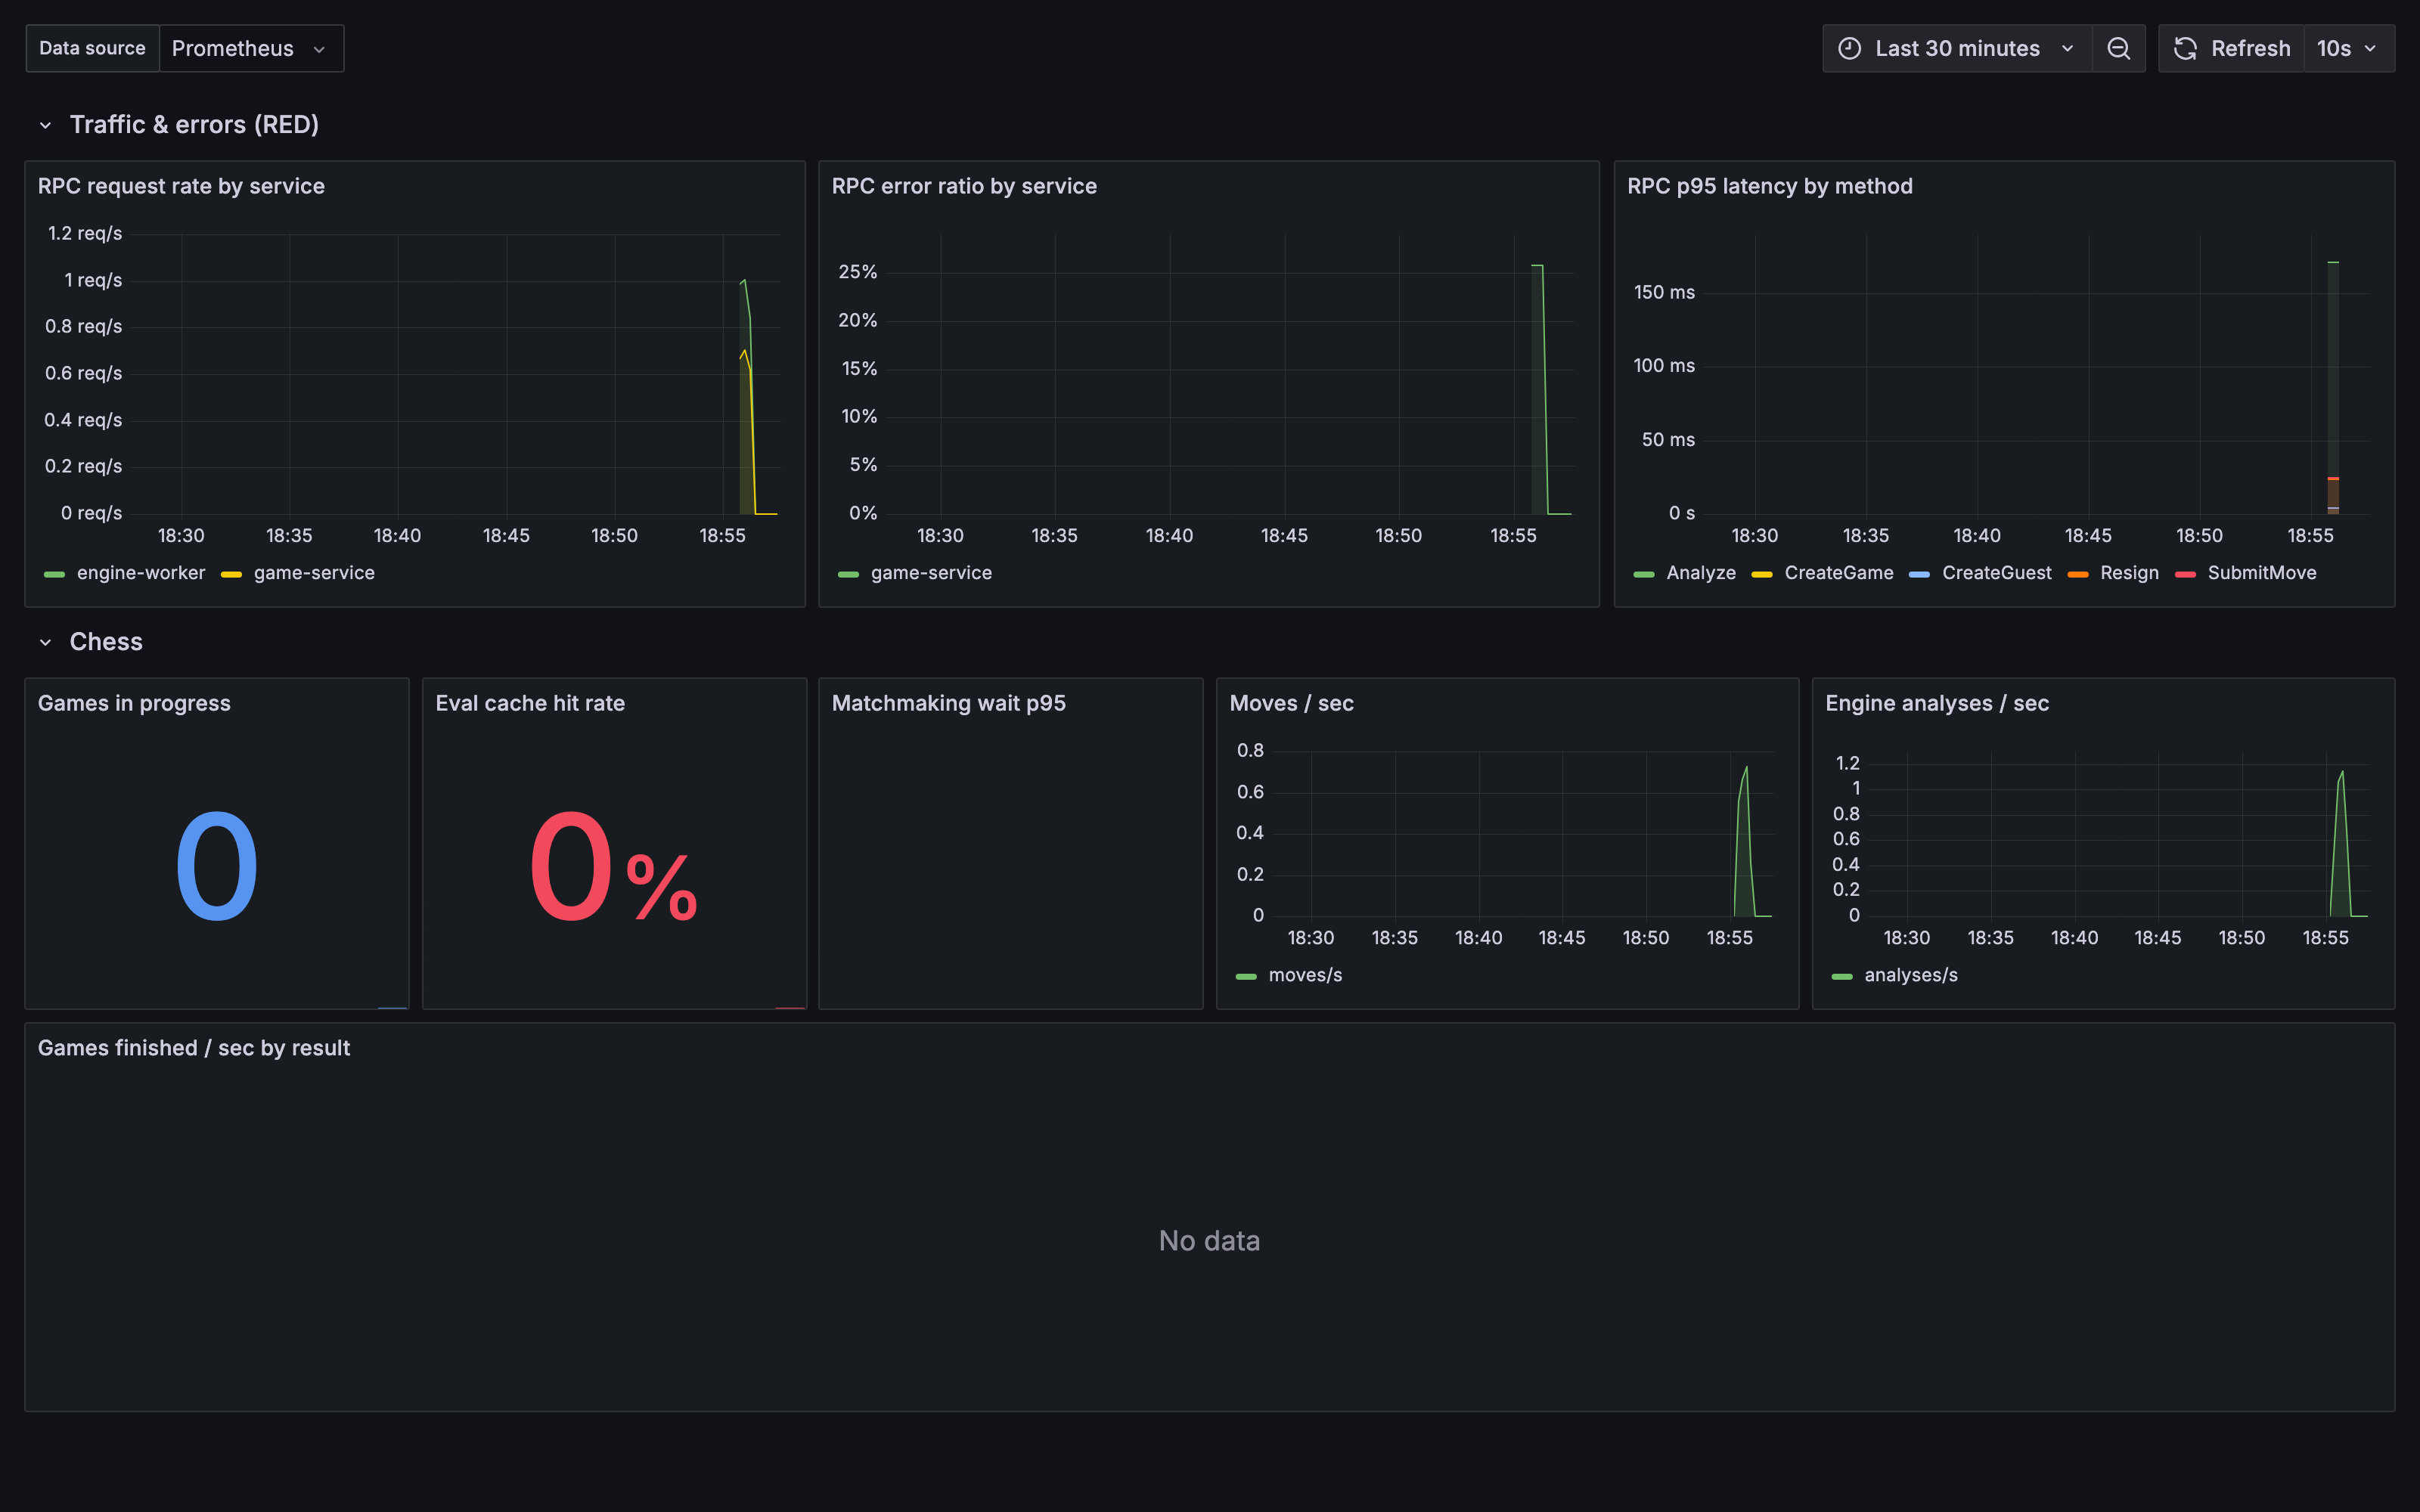
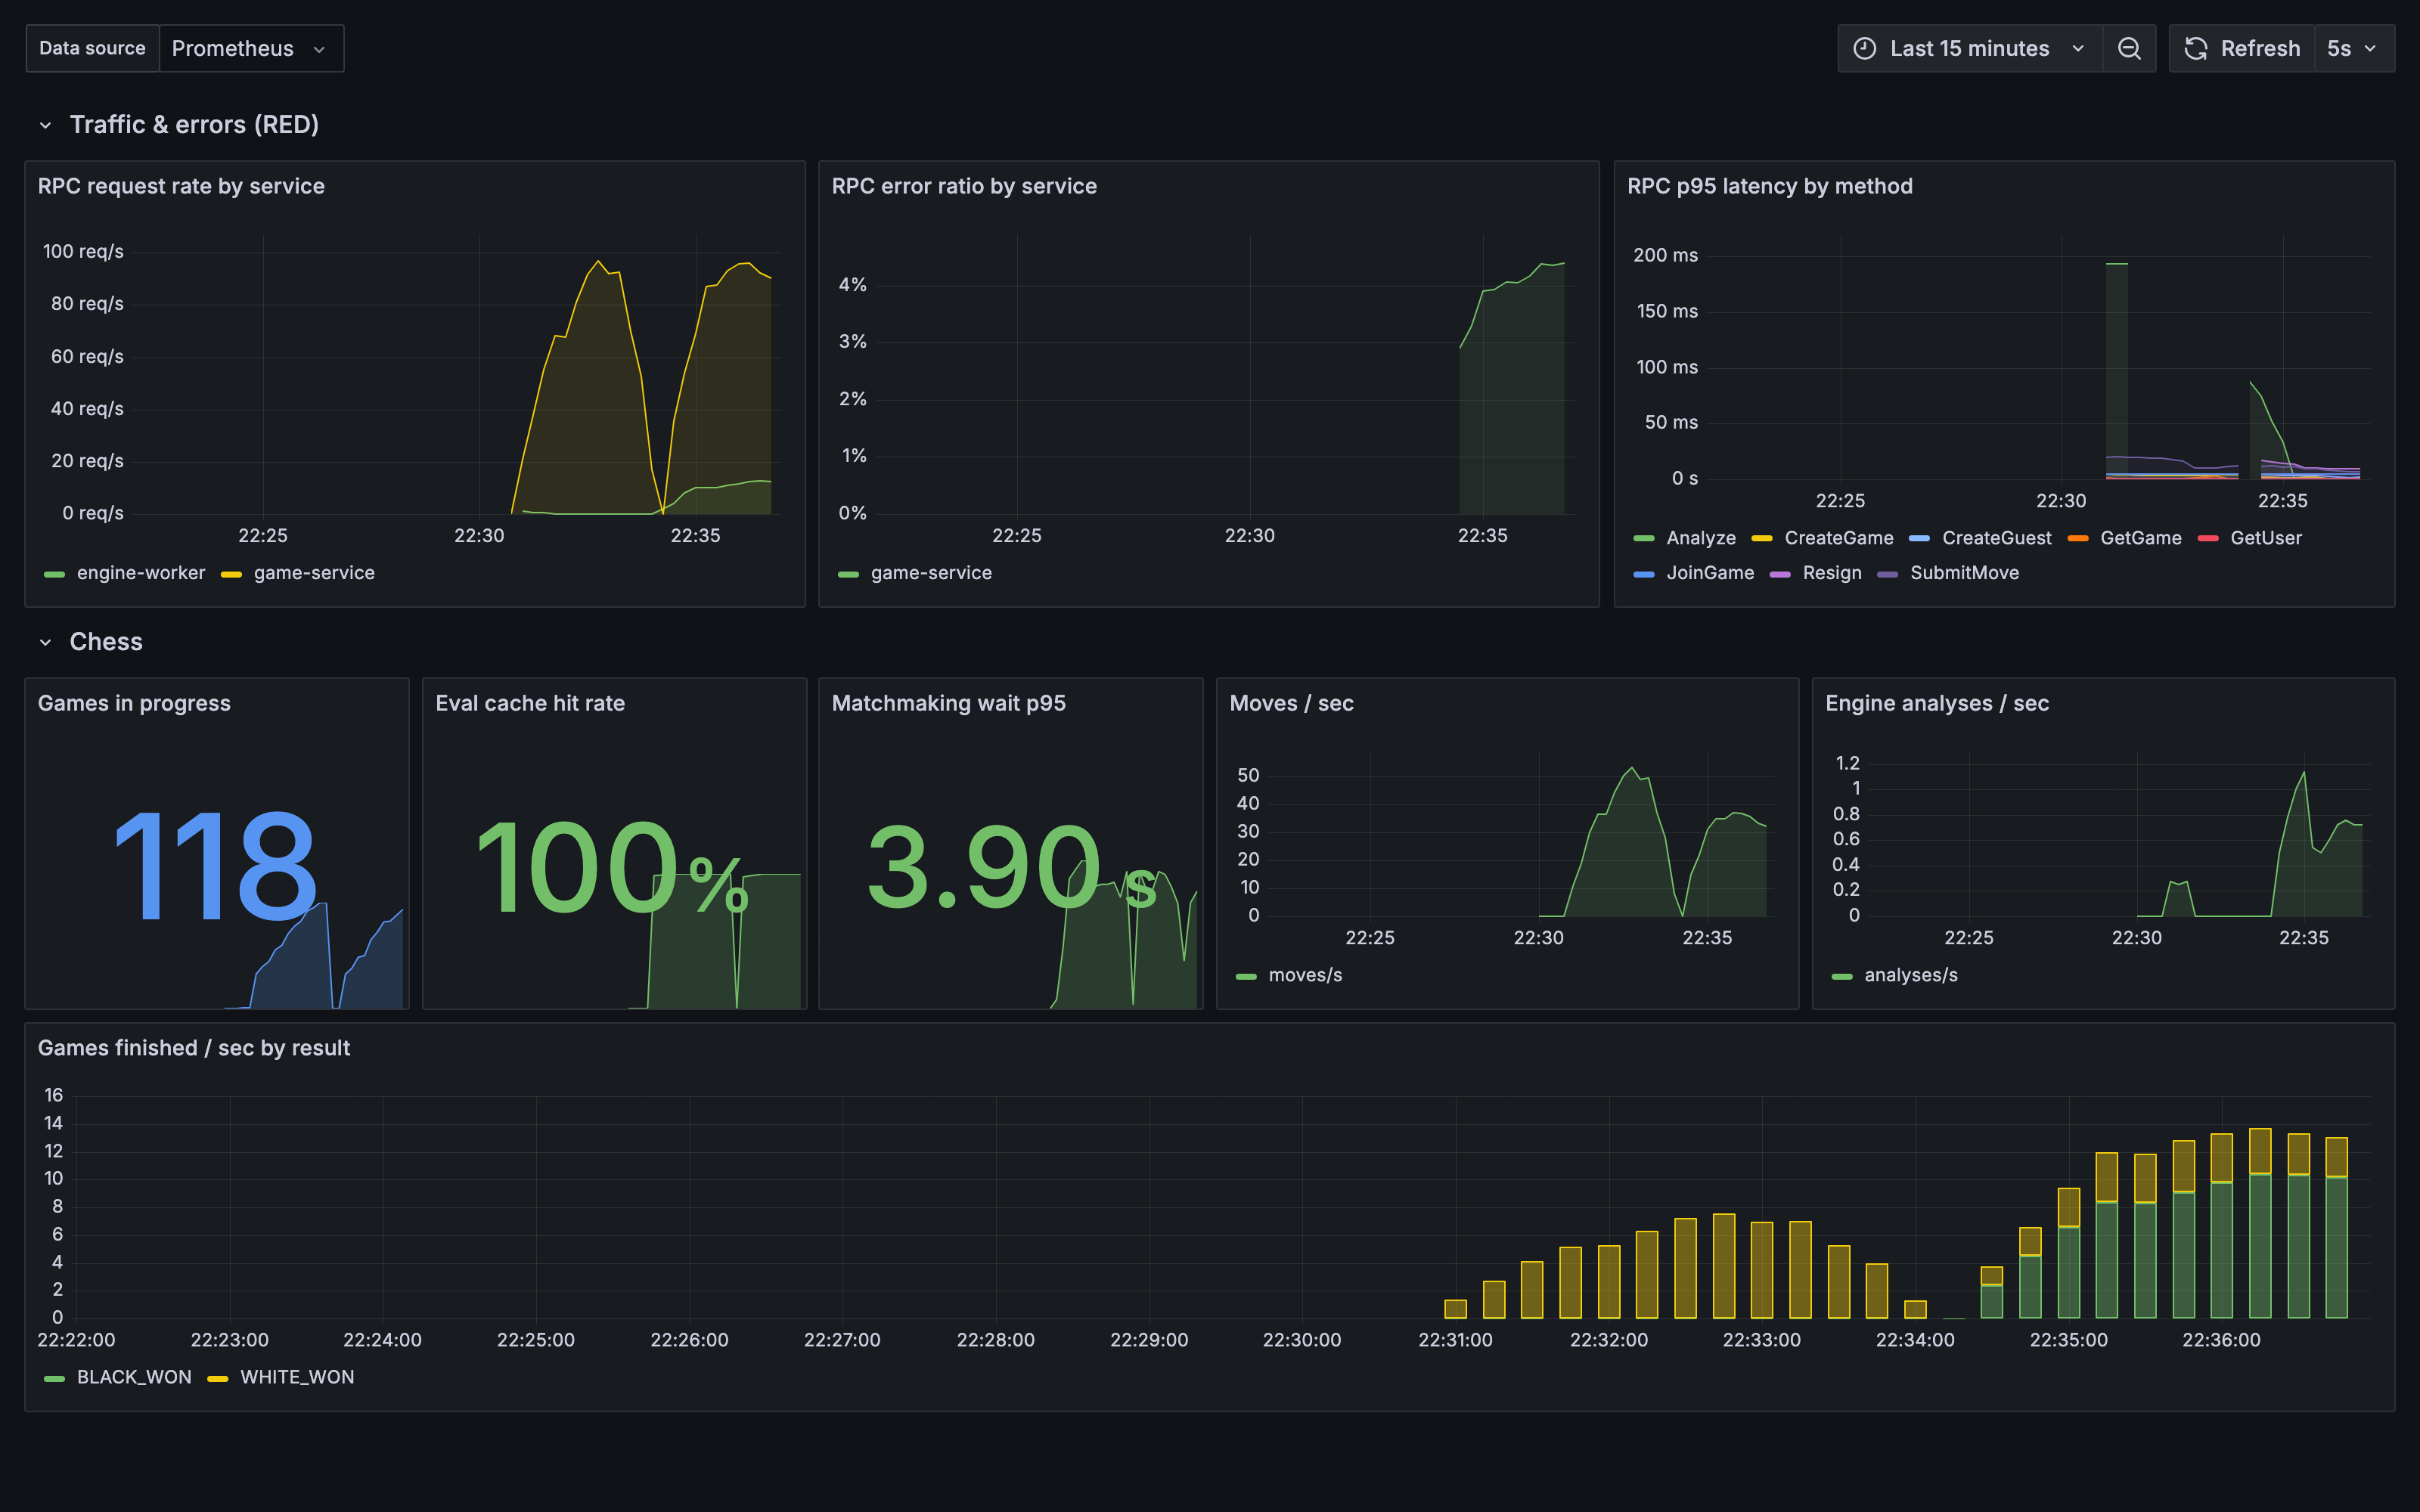
fix(observability): wire the dead metrics; dashboard now shows a live system
The Grafana dashboard had three panels that could never show data because the
metrics behind them were declared but never recorded:

- acg_games_active: game-service now Inc's on create and Dec's on every terminal
  path (checkmate, resignation). This also fixed a related gap — resignations
  were not counting toward acg_games_finished_total at all.
- acg_eval_cache_hits/misses_total: the eval cache tracked hits/misses internally
  but never exported them. Add an optional Counter sink (minimal interface, no
  coupling to Prometheus) and feed it from game-service and analysis-worker.
- acg_matchmaking_wait_seconds: the pairing Lua now returns the matched
  opponent's wait, and the gateway observes it as the queue-to-game latency.

Verified under sustained + spiking load: games-in-progress ~118, cache hit rate
~100% (openings recur — the cache doing its job), matchmaking wait p95 ~4s,
moves/analyses/finished-by-result all live. Re-shot the dashboard under load.

diff --git a/pkg/redisx/evalcache.go b/pkg/redisx/evalcache.go
@@ -28,21 +28,50 @@ type Eval struct {
 	PV       []string `json:"pv,omitempty"`
 }
 
+// Counter is the minimal metric sink the cache reports to. prometheus.Counter
+// satisfies it, but the cache stays decoupled from any particular metrics library.
+type Counter interface{ Inc() }
+
 // EvalCache is a position→evaluation cache keyed by FEN and search depth.
 //
 // Chess is unusually well suited to this: openings and common middlegames recur
 // constantly across games, and evaluating a position is expensive while looking
 // it up is not. A nil cache is valid and simply never hits.
 type EvalCache struct {
-	client *redis.Client
-	hits   atomic.Int64
-	misses atomic.Int64
-	errs   atomic.Int64
+	client  *redis.Client
+	hits    atomic.Int64
+	misses  atomic.Int64
+	errs    atomic.Int64
+	hitCtr  Counter // optional Prometheus counters; nil when unset
+	missCtr Counter
 }
 
 // NewEvalCache builds a cache. A nil client disables it.
 func NewEvalCache(client *redis.Client) *EvalCache {
 	return &EvalCache{client: client}
+}
+
+// WithMetrics attaches hit/miss counters (e.g. Prometheus) so cache activity is
+// scrapeable, not just visible in logs. Chainable and nil-safe.
+func (c *EvalCache) WithMetrics(hits, misses Counter) *EvalCache {
+	if c != nil {
+		c.hitCtr, c.missCtr = hits, misses
+	}
+	return c
+}
+
+func (c *EvalCache) recordHit() {
+	c.hits.Add(1)
+	if c.hitCtr != nil {
+		c.hitCtr.Inc()
+	}
+}
+
+func (c *EvalCache) recordMiss() {
+	c.misses.Add(1)
+	if c.missCtr != nil {
+		c.missCtr.Inc()
+	}
 }
 
 // Enabled reports whether a Redis client is attached.
@@ -64,22 +93,22 @@ func (c *EvalCache) Get(ctx context.Context, fen string, depth uint32) (*Eval, b
 	}
 	raw, err := c.client.Get(ctx, evalKey(fen, depth)).Bytes()
 	if errors.Is(err, redis.Nil) {
-		c.misses.Add(1)
+		c.recordMiss()
 		return nil, false
 	}
 	if err != nil {
 		c.errs.Add(1)
-		c.misses.Add(1)
+		c.recordMiss()
 		return nil, false
 	}
 	var e Eval
 	if err := json.Unmarshal(raw, &e); err != nil {
 		// A corrupt entry is worse than none: drop it and treat as a miss.
 		c.client.Del(ctx, evalKey(fen, depth))
-		c.misses.Add(1)
+		c.recordMiss()
 		return nil, false
 	}
-	c.hits.Add(1)
+	c.recordHit()
 	return &e, true
 }
 

diff --git a/pkg/redisx/matchmaking.go b/pkg/redisx/matchmaking.go
@@ -78,7 +78,7 @@ local my_band = math.min(max_band, initial_band + my_wait * band_per_sec)
 local candidates = redis.call('ZRANGEBYSCORE', queue,
   elo - my_band, elo + my_band, 'WITHSCORES')
 
-local best, best_gap = nil, nil
+local best, best_gap, best_since = nil, nil, nil
 for i = 1, #candidates, 2 do
   local other = candidates[i]
   local other_elo = tonumber(candidates[i + 1])
@@ -89,7 +89,7 @@ for i = 1, #candidates, 2 do
     local other_band = math.min(max_band, initial_band + other_wait * band_per_sec)
     local gap = math.abs(other_elo - elo)
     if gap <= other_band and (best_gap == nil or gap < best_gap) then
-      best, best_gap = other, gap
+      best, best_gap, best_since = other, gap, other_since
     end
   end
 end
@@ -97,7 +97,9 @@ end
 if best then
   redis.call('ZREM', queue, best, me)
   redis.call('HDEL', since, best, me)
-  return best
+  -- Return the opponent and how long they had been waiting (ms), so the caller
+  -- can record the pairing latency.
+  return {best, best_since or now}
 end
 
 -- No opponent: wait, remembering when we started so the band can widen.
@@ -107,14 +109,16 @@ return false
 `)
 
 // Enqueue looks for an opponent, joining the queue if none is available.
-// Returns the opponent's id and true when paired.
-func (m *Matchmaking) Enqueue(ctx context.Context, userID string, elo int, timeControl string) (string, bool, error) {
+// Returns the opponent's id, true when paired, and how long the paired opponent
+// had been waiting (zero when not paired).
+func (m *Matchmaking) Enqueue(ctx context.Context, userID string, elo int, timeControl string) (string, bool, time.Duration, error) {
 	if !m.Enabled() {
-		return "", false, nil
+		return "", false, 0, nil
 	}
+	now := time.Now().UnixMilli()
 	res, err := tryPair.Run(ctx, m.client,
 		[]string{queueKey(timeControl), waitKey(timeControl)},
-		userID, elo, time.Now().UnixMilli(), initialBand, bandPerSec, maxBand,
+		userID, elo, now, initialBand, bandPerSec, maxBand,
 	).Result()
 
 	// Lua `false` arrives as a nil reply, which go-redis reports as redis.Nil —
@@ -124,17 +128,27 @@ func (m *Matchmaking) Enqueue(ctx context.Context, userID string, elo int, timeC
 		// Expire the queue so a crashed process cannot strand players in it.
 		m.client.Expire(ctx, queueKey(timeControl), queueTTL)
 		m.client.Expire(ctx, waitKey(timeControl), queueTTL)
-		return "", false, nil
+		return "", false, 0, nil
 	}
 	if err != nil {
-		return "", false, fmt.Errorf("matchmaking enqueue: %w", err)
+		return "", false, 0, fmt.Errorf("matchmaking enqueue: %w", err)
 	}
 
-	opponent, ok := res.(string)
-	if !ok || opponent == "" {
-		return "", false, nil
+	// Paired: the script returns {opponentID, opponentSinceMs}.
+	tuple, ok := res.([]interface{})
+	if !ok || len(tuple) < 2 {
+		return "", false, 0, nil
 	}
-	return opponent, true, nil
+	opponent, _ := tuple[0].(string)
+	if opponent == "" {
+		return "", false, 0, nil
+	}
+	sinceMs, _ := tuple[1].(int64)
+	wait := time.Duration(0)
+	if sinceMs > 0 && now > sinceMs {
+		wait = time.Duration(now-sinceMs) * time.Millisecond
+	}
+	return opponent, true, wait, nil
 }
 
 // Leave removes a player from the queue (cancelled, or disconnected).

diff --git a/services/game-service/internal/server/server.go b/services/game-service/internal/server/server.go
@@ -58,15 +58,34 @@ func New(st *store.Store, eng *engine.Client, sess *session.Client, events *kafk
 	}
 }
 
-// recordMove feeds the move / finished-game gauges. Nil-safe so the server runs
-// without metrics.
+// Metric helpers. All nil-safe so the server runs without metrics.
+
+// gameCreated bumps the in-progress gauge.
+func (s *Server) gameCreated() {
+	if s.metrics != nil {
+		s.metrics.GamesActive.Inc()
+	}
+}
+
+// gameEnded closes out a finished game: it leaves the in-progress gauge and
+// counts the result. Called from every terminal path (checkmate, resignation).
+func (s *Server) gameEnded(result chess.Result) {
+	if s.metrics == nil {
+		return
+	}
+	s.metrics.GamesActive.Dec()
+	s.metrics.GamesFinished.WithLabelValues(resultToDB(result)).Inc()
+}
+
+// recordMove feeds the move gauge and, when the move ended the game, the
+// finished-game counters.
 func (s *Server) recordMove(ended bool, result chess.Result) {
 	if s.metrics == nil {
 		return
 	}
 	s.metrics.MovesTotal.Inc()
 	if ended {
-		s.metrics.GamesFinished.WithLabelValues(resultToDB(result)).Inc()
+		s.gameEnded(result)
 	}
 }
 
@@ -111,6 +130,7 @@ func (s *Server) CreateGame(ctx context.Context, req *gamev1.CreateGameRequest) 
 			return nil, status.Errorf(codes.Internal, "create session: %v", err)
 		}
 	}
+	s.gameCreated()
 	return &gamev1.CreateGameResponse{Game: toProtoGame(g, nil)}, nil
 }
 
@@ -285,6 +305,7 @@ func (s *Server) Resign(ctx context.Context, req *gamev1.ResignRequest) (*gamev1
 	if err != nil {
 		return nil, status.Errorf(codes.Internal, "end game: %v", err)
 	}
+	s.gameEnded(winner)
 
 	// Mirror the result into the live session so its clocks stop.
 	if !g.VsEngine && s.session.Enabled() {

diff --git a/pkg/redisx/matchmaking_test.go b/pkg/redisx/matchmaking_test.go
@@ -21,7 +21,7 @@ func TestMatchmakingPairsTwoPlayers(t *testing.T) {
 	t.Cleanup(func() { m.client.Del(ctx, queueKey(tc), waitKey(tc)) })
 
 	// First player finds nobody and waits.
-	opp, paired, err := m.Enqueue(ctx, "alice", 1200, tc)
+	opp, paired, _, err := m.Enqueue(ctx, "alice", 1200, tc)
 	if err != nil {
 		t.Fatal(err)
 	}
@@ -30,7 +30,7 @@ func TestMatchmakingPairsTwoPlayers(t *testing.T) {
 	}
 
 	// Second player, similar rating, pairs with the first.
-	opp, paired, err = m.Enqueue(ctx, "bob", 1220, tc)
+	opp, paired, _, err = m.Enqueue(ctx, "bob", 1220, tc)
 	if err != nil {
 		t.Fatal(err)
 	}
@@ -53,10 +53,10 @@ func TestMatchmakingRefusesDistantRatings(t *testing.T) {
 	tc := uniqueTC(t)
 	t.Cleanup(func() { m.client.Del(ctx, queueKey(tc), waitKey(tc)) })
 
-	if _, paired, _ := m.Enqueue(ctx, "beginner", 900, tc); paired {
+	if _, paired, _, _ := m.Enqueue(ctx, "beginner", 900, tc); paired {
 		t.Fatal("first player cannot pair with an empty queue")
 	}
-	_, paired, err := m.Enqueue(ctx, "master", 2400, tc)
+	_, paired, _, err := m.Enqueue(ctx, "master", 2400, tc)
 	if err != nil {
 		t.Fatal(err)
 	}
@@ -80,14 +80,14 @@ func TestMatchmakingPicksNearestRating(t *testing.T) {
 	// correct behaviour, just not what this test is measuring).
 	//   far  1280 → 80 from seeker
 	//   near 1130 → 70 from seeker, and 150 from far, so the two do not pair.
-	if _, paired, _ := m.Enqueue(ctx, "far", 1280, tc); paired {
+	if _, paired, _, _ := m.Enqueue(ctx, "far", 1280, tc); paired {
 		t.Fatal("far should find an empty queue")
 	}
-	if _, paired, _ := m.Enqueue(ctx, "near", 1130, tc); paired {
+	if _, paired, _, _ := m.Enqueue(ctx, "near", 1130, tc); paired {
 		t.Fatal("near and far are 150 apart and must not pair")
 	}
 
-	opp, paired, err := m.Enqueue(ctx, "seeker", 1200, tc)
+	opp, paired, _, err := m.Enqueue(ctx, "seeker", 1200, tc)
 	if err != nil {
 		t.Fatal(err)
 	}
@@ -110,7 +110,7 @@ func TestMatchmakingLeaveRemovesPlayer(t *testing.T) {
 		t.Errorf("queue depth = %d after leaving, want 0", n)
 	}
 	// Someone else must not then pair with the departed player.
-	if _, paired, _ := m.Enqueue(ctx, "other", 1500, tc); paired {
+	if _, paired, _, _ := m.Enqueue(ctx, "other", 1500, tc); paired {
 		t.Error("paired with a player who left the queue")
 	}
 }
@@ -134,7 +134,7 @@ func TestMatchmakingIsAtomicUnderConcurrency(t *testing.T) {
 			defer wg.Done()
 			me := fmt.Sprintf("p%02d", i)
 			// All within one band, so everyone is a valid opponent for everyone.
-			opp, paired, err := m.Enqueue(ctx, me, 1500, tc)
+			opp, paired, _, err := m.Enqueue(ctx, me, 1500, tc)
 			if err != nil {
 				t.Errorf("enqueue %s: %v", me, err)
 				return
@@ -180,7 +180,7 @@ func TestMatchmakingSeparatesTimeControls(t *testing.T) {
 
 	m.Enqueue(ctx, "blitzer", 1500, blitz)
 	// Same rating, different time control: must not be pulled into the blitz game.
-	if _, paired, _ := m.Enqueue(ctx, "classicist", 1500, classical); paired {
+	if _, paired, _, _ := m.Enqueue(ctx, "classicist", 1500, classical); paired {
 		t.Error("players on different time controls must not be paired")
 	}
 }
@@ -190,7 +190,7 @@ func TestNilMatchmakingDegrades(t *testing.T) {
 	if m.Enabled() {
 		t.Error("nil client should report disabled")
 	}
-	if _, paired, err := m.Enqueue(context.Background(), "x", 1200, "tc"); paired || err != nil {
+	if _, paired, _, err := m.Enqueue(context.Background(), "x", 1200, "tc"); paired || err != nil {
 		t.Errorf("disabled matchmaking should no-op, got paired=%v err=%v", paired, err)
 	}
 }

diff --git a/services/gateway/graph/matchmaking.go b/services/gateway/graph/matchmaking.go
@@ -44,7 +44,7 @@ func (r *Resolver) enterQueue(ctx context.Context, input model.QueueInput) (*mod
 	elo := int(user.GetUser().GetElo())
 	tc := timeControlKey(input)
 
-	opponent, paired, err := r.Matchmaking.Enqueue(ctx, id.UserID, elo, tc)
+	opponent, paired, wait, err := r.Matchmaking.Enqueue(ctx, id.UserID, elo, tc)
 	if err != nil {
 		return nil, err
 	}
@@ -52,6 +52,11 @@ func (r *Resolver) enterQueue(ctx context.Context, input model.QueueInput) (*mod
 
 	if !paired {
 		return &model.QueueTicket{Matched: false, QueueDepth: int(depth)}, nil
+	}
+
+	// Record how long the paired opponent waited — the queue-to-game latency.
+	if r.Metrics != nil {
+		r.Metrics.MatchmakingWait.Observe(wait.Seconds())
 	}
 
 	// Paired: whoever arrived second creates the game.
@@ -71,7 +76,7 @@ func (r *Resolver) enterQueue(ctx context.Context, input model.QueueInput) (*mod
 	if err != nil {
 		// Put the opponent back rather than stranding them: they are no longer in
 		// the queue (the pairing script removed both) and have no game either.
-		if _, _, reErr := r.Matchmaking.Enqueue(ctx, opponent, elo, tc); reErr != nil {
+		if _, _, _, reErr := r.Matchmaking.Enqueue(ctx, opponent, elo, tc); reErr != nil {
 			r.Log.Error("could not requeue opponent after a failed pairing",
 				"opponent", opponent, "error", reErr)
 		}

diff --git a/services/gateway/graph/resolver.go b/services/gateway/graph/resolver.go
@@ -4,6 +4,7 @@ import (
 	"log/slog"
 
 	"github.com/IshaanNene/AlekhinesCounter-Gambit/pkg/redisx"
+	"github.com/IshaanNene/AlekhinesCounter-Gambit/pkg/telemetry"
 	"github.com/IshaanNene/AlekhinesCounter-Gambit/services/gateway/internal/auth"
 	"github.com/IshaanNene/AlekhinesCounter-Gambit/services/gateway/internal/pubsub"
 	"github.com/IshaanNene/AlekhinesCounter-Gambit/services/gateway/internal/upstream"
@@ -20,5 +21,7 @@ type Resolver struct {
 	Signer   *auth.Signer
 	// Matchmaking pairs waiting players. May be disabled when Redis is absent.
 	Matchmaking *redisx.Matchmaking
-	Log         *slog.Logger
+	// Metrics records platform gauges (e.g. matchmaking wait). May be nil.
+	Metrics *telemetry.Metrics
+	Log     *slog.Logger
 }

diff --git a/services/analysis-worker/main.go b/services/analysis-worker/main.go
@@ -48,7 +48,6 @@ func main() {
 	defer func() { _ = tracingShutdown(context.Background()) }()
 	metricsShutdown := telemetry.ServeMetrics(config.Getenv("ACG_METRICS_ADDR", ":9101"), metrics, log)
 	defer func() { _ = metricsShutdown(context.Background()) }()
-	_ = metrics
 
 	brokers := config.Getenv("ACG_KAFKA_BROKERS", "")
 	if brokers == "" {
@@ -95,7 +94,7 @@ func main() {
 
 	// The eval cache matters most here: analysis re-walks openings every game, so
 	// most early positions are already known.
-	evalCache := redisx.NewEvalCache(rdb)
+	evalCache := redisx.NewEvalCache(rdb).WithMetrics(metrics.CacheHits, metrics.CacheMisses)
 	eng, err := engine.Dial(engineAddr, evalCache, log)
 	if err != nil {
 		log.Error("failed to dial engine-worker", "addr", engineAddr, "error", err)

diff --git a/services/game-service/main.go b/services/game-service/main.go
@@ -102,7 +102,7 @@ func main() {
 	if rdb != nil {
 		defer rdb.Close()
 	}
-	evalCache := redisx.NewEvalCache(rdb)
+	evalCache := redisx.NewEvalCache(rdb).WithMetrics(metrics.CacheHits, metrics.CacheMisses)
 
 	eng, err := engine.Dial(engineAddr, evalCache, log)
 	if err != nil {

diff --git a/services/gateway/main.go b/services/gateway/main.go
@@ -110,6 +110,7 @@ func main() {
 		Bus:         bus,
 		Signer:      signer,
 		Matchmaking: redisx.NewMatchmaking(rdb),
+		Metrics:     metrics,
 		Log:         log,
 	}, signer)
 